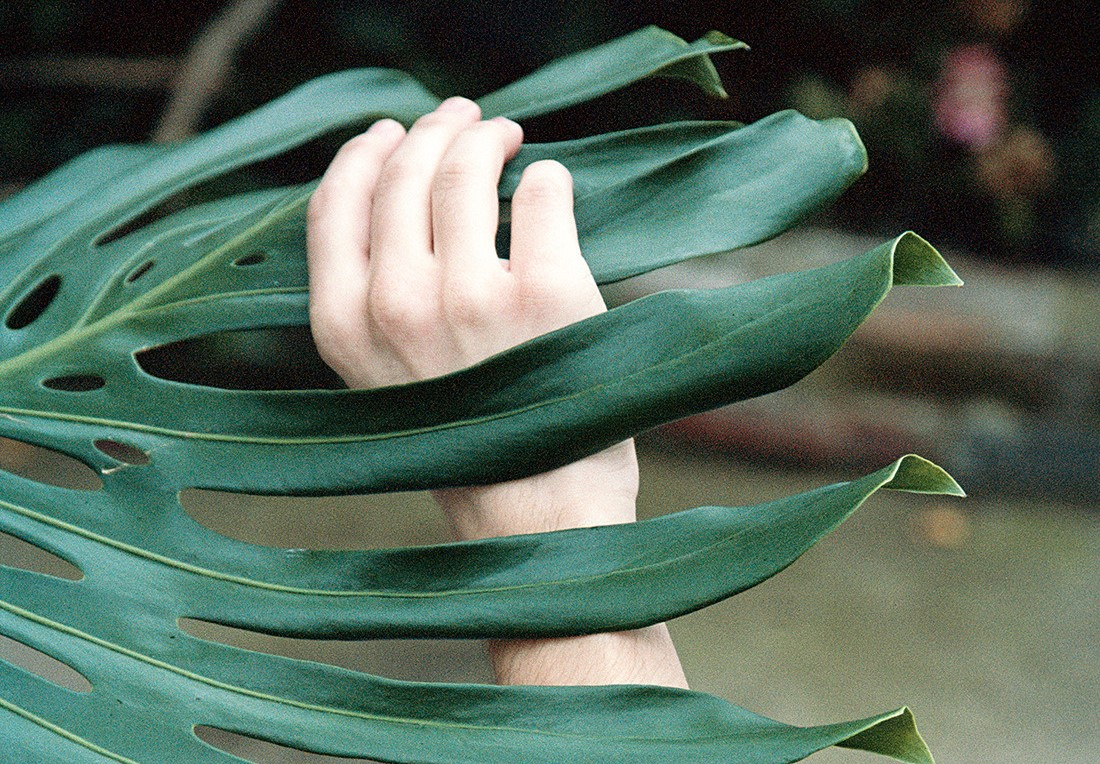
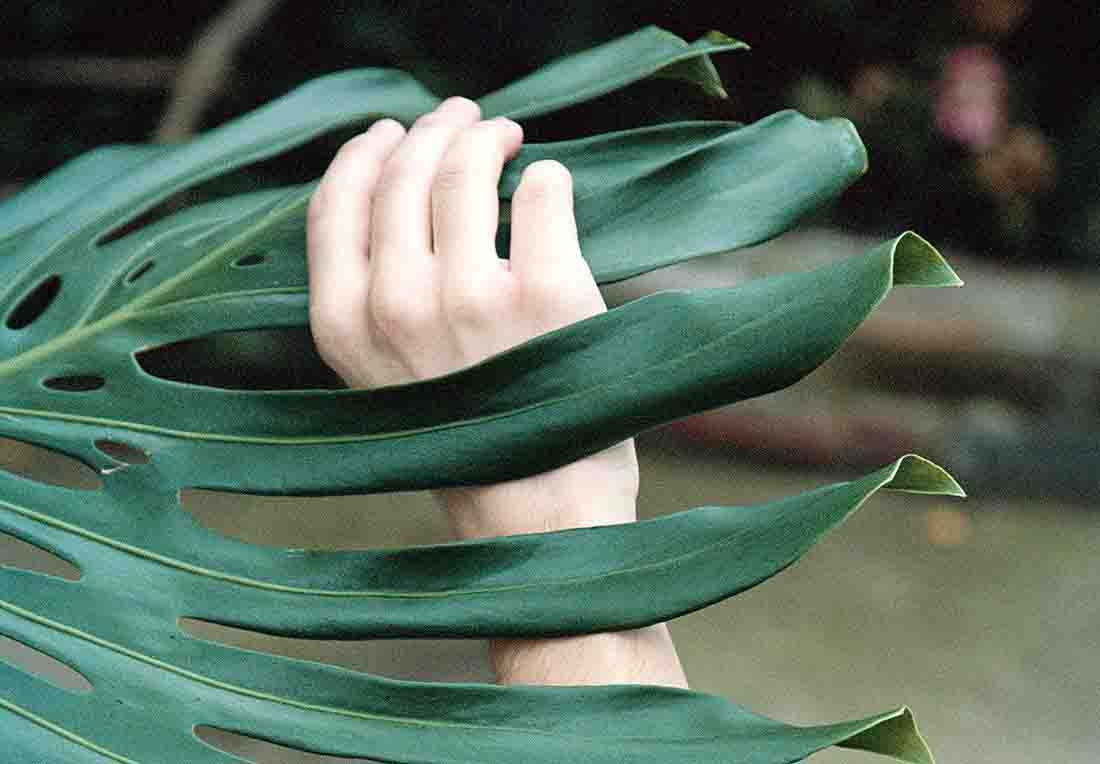
优化图片

diff --git a/_posts/2018-01-04-关于我.md b/_posts/2018-01-04-关于我.md
@@ -4,8 +4,8 @@ title:  "About me"
 date:   2018-01-04 02:09:46 +0800
 categories: contact
 image:
-  teaser: g2.gif
-  feature: g2.gif
+  teaser: personal.jpg
+  feature: personal.jpg
 ---
 ## Grace YangYulin
 ---
